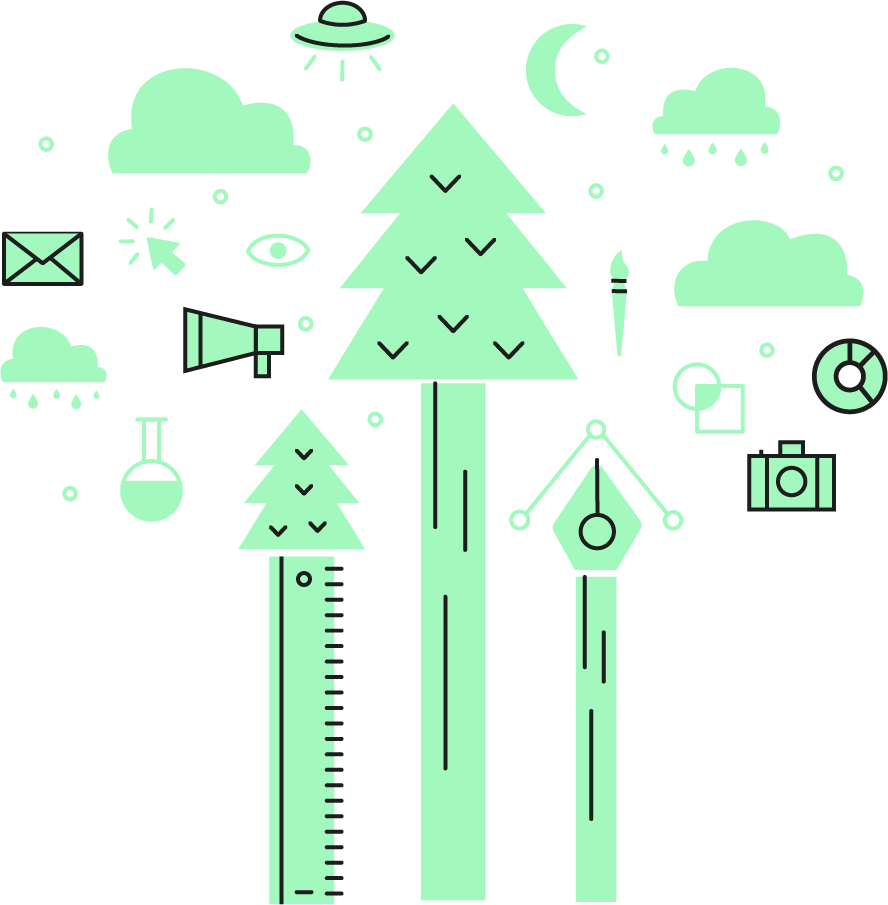
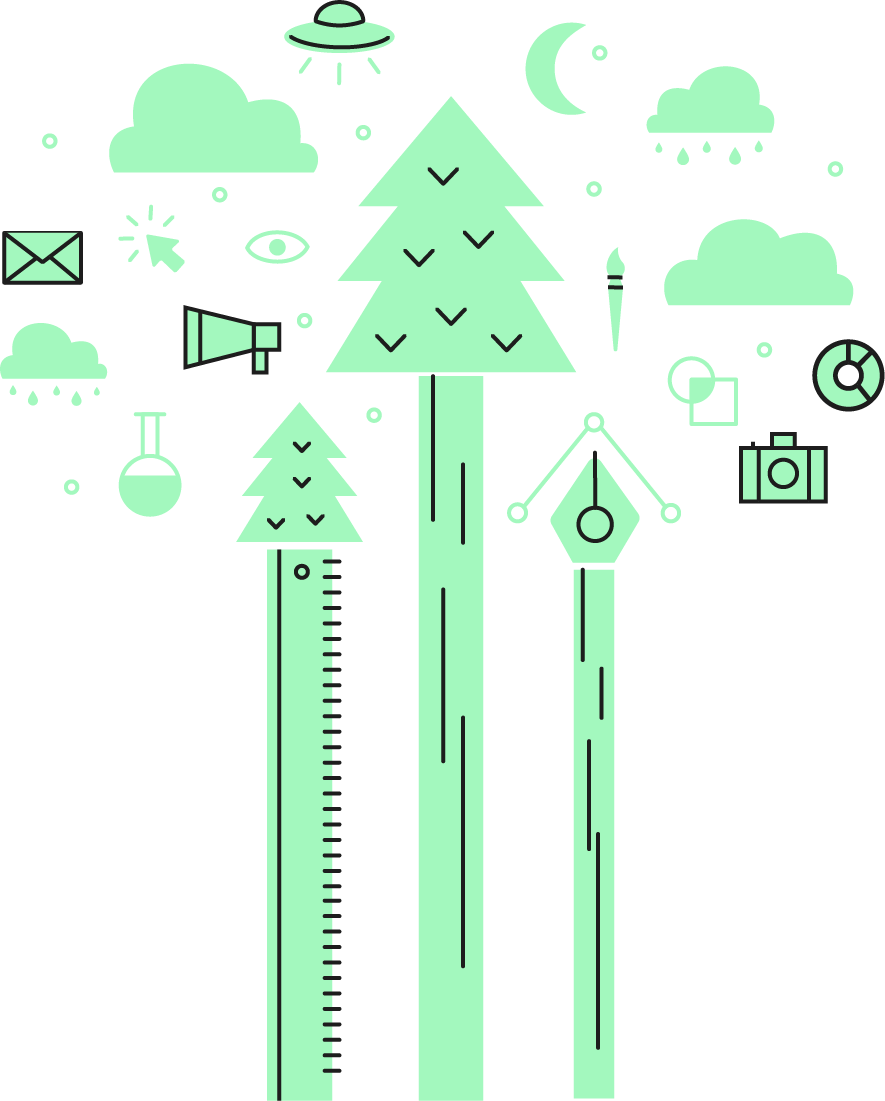
update intro art sizing

diff --git a/work/about.html b/work/about.html
@@ -30,7 +30,7 @@
       <img class="about-image-home" src="../img/caroline.png" alt="" width = "200px" height="200px">
       <h2 class="about-head drop-shadow">I care about using design to tell meaningful stories.</h2>
     </div>
-    <div class="intro-blurb">
+    <div>
       <div class="about-paragraph-intro">
         <p class="about-paragraph"><span class="bold-copy">Hi there! I am a graphic designer, web designer, and artist living in Bend Oregon.</span> I first dove into the creative world, through drawing and visual arts classes at Bowdoin College. This led to my fascination and pursuit of graphic and web design. I studied at the Rhode Island School of Design, and have an education background in typography, color theory, web design, infographic and data visualization design, book design, and type and image design. I currently work at SKDK, a public affairs and political consulting firm, voted top public affairs firm in 2017, 2018, and 2019 by the Holmes Report. I started as a graphic design intern and was promoted in the summer of 2020 to creative consultant. I also take on freelancing projects and have worked with clients such as Nike, PerryUndem, and WholeSchool Mindfulness. In my free time, I love to whitewater paddle, ski, rock climb, and hike with my friends and family!</p>
       </div>
@@ -62,7 +62,7 @@
 
   </div>
   <div class="footer">
-    <img src="../img/logo-black.png" width="50px" alt="">
+    <a href="../index.html"><img src="../img/logo-black.png" width="50px" alt=""></a>
     <div class="flex-between">
       <div>
         <h3 class="footer-head">Need help visually sharing your stories with the world?</h3>

diff --git a/css/style.css b/css/style.css
@@ -26,16 +26,19 @@ a {
 .intro-head {
   margin-top: 200px;
   padding-bottom: 10px;
-  filter: drop-shadow(0px 0px 2px black);
+  text-shadow: 0px 0px 3px black, 0px 0px 8px black;
 }
 
 .intro-subhead {
-  padding-bottom: 10px;
+  padding-bottom: 30px;
   font-size: 22px;
+  text-shadow: 0px 0px 3px black, 0px 0px 8px black;
 }
 
 .intro-blurb {
+  width: 500px;
   position: absolute;
+  height: 100%;
 }
 
 .intro-home {
@@ -63,7 +66,7 @@ a {
 }
 
 .drop-shadow {
-  filter: drop-shadow(1px 1px 1px #4448);
+  text-shadow: 0px 0px 3px #393e46;
 }
 
 .nav-container {
@@ -125,7 +128,7 @@ button:focus {
 }
 
 .hover-gradient {
-  background-image: linear-gradient(to top right, #393e46 0%, #a3f7bf 100%);
+  background-image: linear-gradient(to top right, #2A7543 0%, #a3f7bf 100%);
   position: absolute;
 }
 

diff --git a/work/japan.html b/work/japan.html
@@ -73,7 +73,7 @@
       <iframe class="page-image" allowfullscreen="true" allow="fullscreen" style="border:none;width:100%;height:600px;" src="//e.issuu.com/embed.html?d=japan_design_issuu&u=cgcarter25"></iframe>
     </div>
     <div class="footer">
-      <img src="../img/logo-black.png" width="50px" alt="">
+      <a href="../index.html"><img src="../img/logo-black.png" width="50px" alt=""></a>
       <div class="flex-between">
         <div>
           <h3 class="footer-head">Need help visually sharing your stories with the world?</h3>

diff --git a/work/dogs.html b/work/dogs.html
@@ -70,7 +70,7 @@
       <iframe class="page-image" allowfullscreen="true" allow="fullscreen" style="border:none;width:100%;height:600px;" src="//e.issuu.com/embed.html?d=project_b_issuu&u=cgcarter25"></iframe>
     </div>
     <div class="footer">
-      <img src="../img/logo-black.png" width="50px" alt="">
+      <a href="../index.html"><img src="../img/logo-black.png" width="50px" alt=""></a>
       <div class="flex-between">
         <div>
           <h3 class="footer-head">Need help visually sharing your stories with the world?</h3>

diff --git a/work/field-notes.html b/work/field-notes.html
@@ -73,7 +73,7 @@
       <iframe class="page-image" allowfullscreen="true" allow="fullscreen" style="border:none;width:100%;height:600px;" src="//e.issuu.com/embed.html?d=project_a_issuu&u=cgcarter25"></iframe>
     </div>
     <div class="footer">
-      <img src="../img/logo-black.png" width="50px" alt="">
+      <a href="../index.html"><img src="../img/logo-black.png" width="50px" alt=""></a>
       <div class="flex-between">
         <div>
           <h3 class="footer-head">Need help visually sharing your stories with the world?</h3>

diff --git a/work/risd.html b/work/risd.html
@@ -72,7 +72,7 @@
       <iframe class="page-image" allowfullscreen="true" allow="fullscreen" style="border:none;width:100%;height:600px;" src="https://www.youtube.com/embed/BxxsPSVDgk8&t=4s"></iframe>
     </div>
     <div class="footer">
-      <img src="../img/logo-black.png" width="50px" alt="">
+      <a href="../index.html"><img src="../img/logo-black.png" width="50px" alt=""></a>
       <div class="flex-between">
         <div>
           <h3 class="footer-head">Need help visually sharing your stories with the world?</h3>

diff --git a/work/nike.html b/work/nike.html
@@ -71,7 +71,7 @@
       <iframe class="page-image" allowfullscreen="true" allow="fullscreen" style="border:none;width:100%;height:600px;" src="https://www.youtube.com/embed/341nubb-chY"></iframe>
     </div>
     <div class="footer">
-      <img src="../img/logo-black.png" width="50px" alt="">
+      <a href="../index.html"><img src="../img/logo-black.png" width="50px" alt=""></a>
       <div class="flex-between">
         <div>
           <h3 class="footer-head">Need help visually sharing your stories with the world?</h3>

diff --git a/index.html b/index.html
@@ -109,7 +109,7 @@
   </a>
   <p class="margin more-here-container"><a href="work/work.html" class="cursive-link more-here">Check out more work here!</a></p>
   <div class="footer">
-    <img src="img/logo-black.png" width="50px" alt="">
+    <a href="index.html"><img src="img/logo-black.png" width="50px" alt=""></a>
     <div class="flex-between">
       <div>
         <h3 class="footer-head">Need help visually sharing your stories with the world?</h3>

diff --git a/work/vote-for-her.html b/work/vote-for-her.html
@@ -76,7 +76,7 @@
       <img src="../img/vote-for-her-3.jpg" alt="" class="page-image">
     </div>
     <div class="footer">
-      <img src="../img/logo-black.png" width="50px" alt="">
+      <a href="../index.html"><img src="../img/logo-black.png" width="50px" alt=""></a>
       <div class="flex-between">
         <div>
           <h3 class="footer-head">Need help visually sharing your stories with the world?</h3>

diff --git a/work/direct-mail.html b/work/direct-mail.html
@@ -73,7 +73,7 @@
       <img src="../img/direct-mail-3.jpg" alt="" class="page-image">
     </div>
     <div class="footer">
-      <img src="../img/logo-black.png" width="50px" alt="">
+      <a href="../index.html"><img src="../img/logo-black.png" width="50px" alt=""></a>
       <div class="flex-between">
         <div>
           <h3 class="footer-head">Need help visually sharing your stories with the world?</h3>

diff --git a/work/three-trips.html b/work/three-trips.html
@@ -71,7 +71,7 @@
       <img src="../img/three-trips-2.png" alt="" class="page-image">
     </div>
     <div class="footer">
-      <img src="../img/logo-black.png" width="50px" alt="">
+      <a href="../index.html"><img src="../img/logo-black.png" width="50px" alt=""></a>
       <div class="flex-between">
         <div>
           <h3 class="footer-head">Need help visually sharing your stories with the world?</h3>

diff --git a/work/seltzer.html b/work/seltzer.html
@@ -73,7 +73,7 @@
       <img src="../img/seltzer-4.png" alt="" class="page-image">
     </div>
     <div class="footer">
-      <img src="../img/logo-black.png" width="50px" alt="">
+      <a href="../index.html"><img src="../img/logo-black.png" width="50px" alt=""></a>
       <div class="flex-between">
         <div>
           <h3 class="footer-head">Need help visually sharing your stories with the world?</h3>
